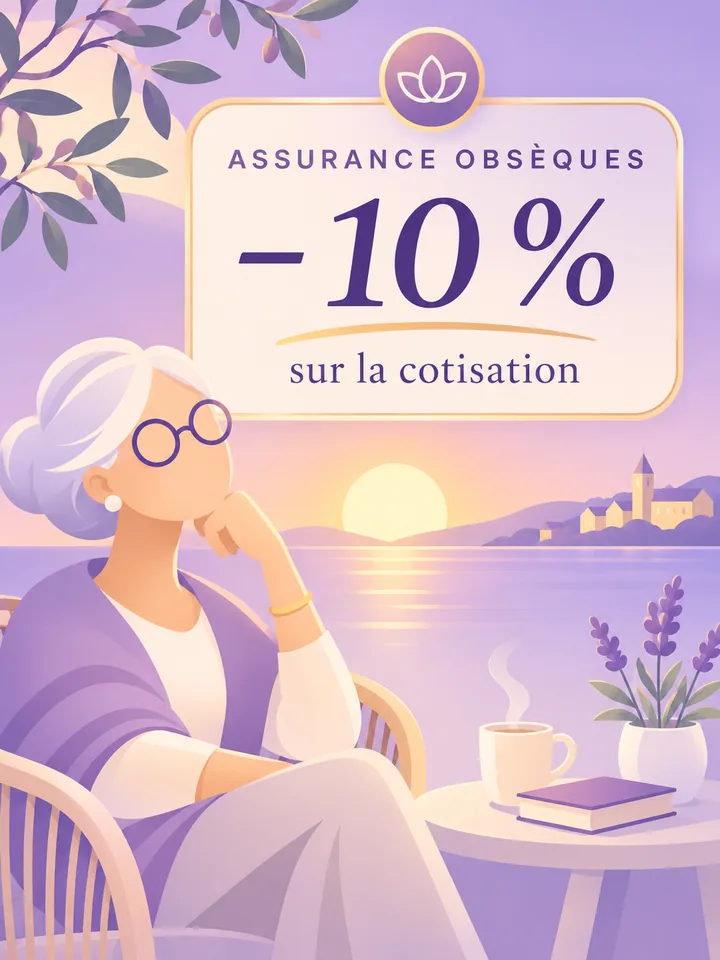
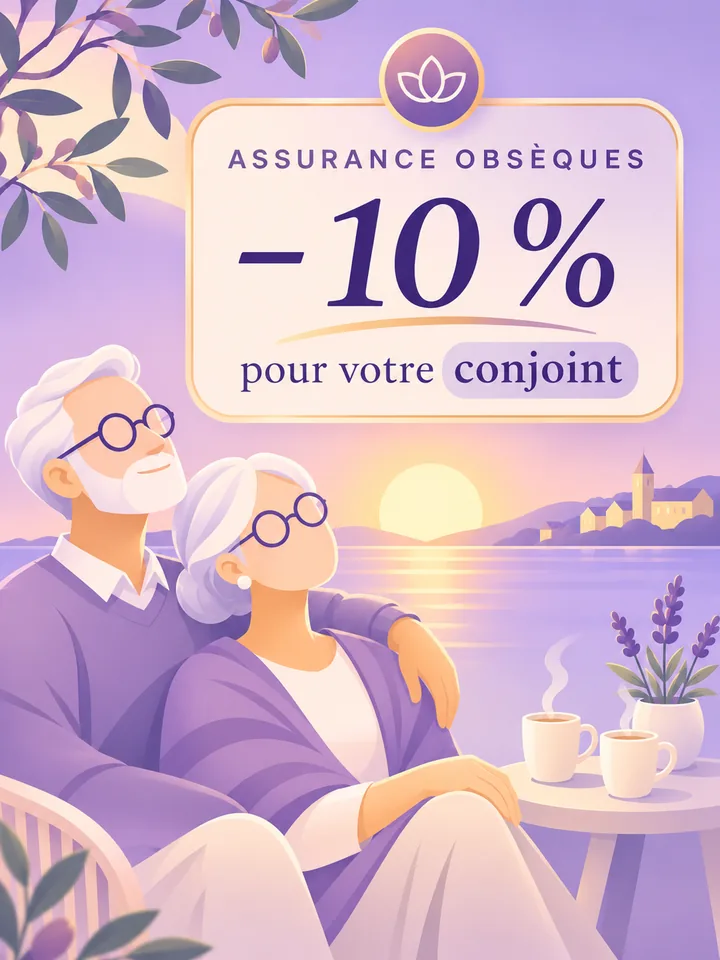
Remplace le visuel −10 % par la version « pour votre conjoint »
Claude-Session: https://claude.ai/code/session_01Ntp9ES6i8ZS8aMgi4tncz8

diff --git a/index.html b/index.html
@@ -388,7 +388,7 @@
 
       <article class="post reveal">
         <header><span class="avatar"></span><div><strong>lueur.bank</strong><small>Publication</small></div><span class="more">•••</span></header>
-        <img class="post-photo" src="img/post-offre-couple.webp" width="720" height="960" loading="lazy" alt="Une femme âgée en terrasse au coucher du soleil. Texte : « Assurance obsèques, −10 % sur la cotisation »">
+        <img class="post-photo" src="img/post-offre-couple.webp" width="720" height="960" loading="lazy" alt="Un couple de retraités enlacés face à la mer au coucher du soleil. Texte : « Assurance obsèques, −10 % pour votre conjoint »">
         <div class="post-actions"><span>♡</span><span>💬</span><span>➤</span><span class="save">⌑</span></div>
         <p class="post-cap"><strong>lueur.bank</strong> On a tout prévu ensemble : la maison, les vacances, les petits-enfants. Et maintenant, ça aussi. 🤍 −10 % sur la cotisation de votre conjoint, pour deux contrats souscrits séparément. <span class="tags">#couple #transmission</span></p>
       </article>
